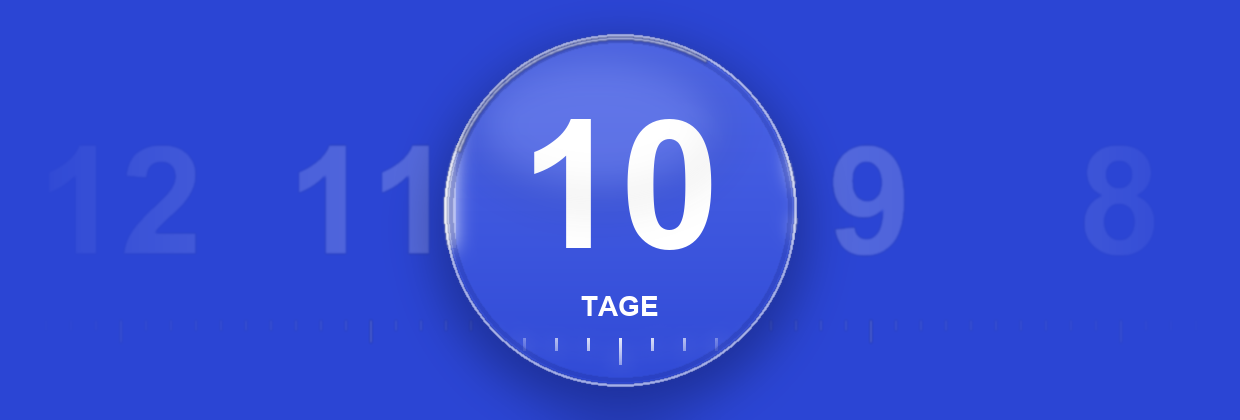
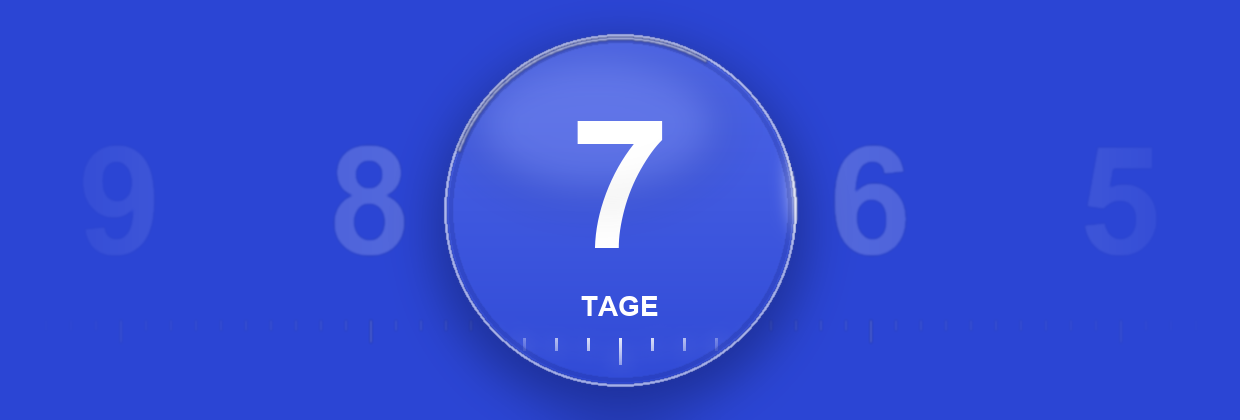
KW46 v15: Countdown 7 Tage, App-Screenshot Sprache

diff --git a/newsletter-kw46-resend.html b/newsletter-kw46-resend.html
@@ -48,7 +48,7 @@
   </style>
 </head>
 <body style="margin:0;padding:0;background:#eef1fb;" bgcolor="#eef1fb">
-  <div class="preheader">In 10 Tagen startet die HalloPetra-App. Ein erster Blick auf das, was sie für dich tut.&nbsp;&#847;&nbsp;&#847;&nbsp;&#847;&nbsp;&#847;&nbsp;&#847;&nbsp;&#847;&nbsp;&#847;&nbsp;&#847;</div>
+  <div class="preheader">In 7 Tagen startet die HalloPetra-App. Ein erster Blick auf das, was sie für dich tut.&nbsp;&#847;&nbsp;&#847;&nbsp;&#847;&nbsp;&#847;&nbsp;&#847;&nbsp;&#847;&nbsp;&#847;&nbsp;&#847;</div>
 
   <table role="presentation" width="100%" cellspacing="0" cellpadding="0" border="0" bgcolor="#eef1fb">
     <tr>
@@ -95,7 +95,7 @@
                     <table role="presentation" width="100%" cellspacing="0" cellpadding="0" border="0" style="margin:6px 0 4px;">
                       <tr>
                         <td align="center" bgcolor="#2b45d4" style="font-size:0;line-height:0;">
-                          <img src="https://raw.githubusercontent.com/jesko-maker/hallopetra-referral/main/countdown-lupe.png" width="620" height="210" alt="Noch 10 Tage bis zur HalloPetra-App" style="width:100%;max-width:620px;height:auto;display:block;color:#ffffff;font-size:28px;font-weight:bold;background-color:#2b45d4;">
+                          <img src="https://raw.githubusercontent.com/jesko-maker/hallopetra-referral/main/countdown-lupe.png" width="620" height="210" alt="Noch 7 Tage bis zur HalloPetra-App" style="width:100%;max-width:620px;height:auto;display:block;color:#ffffff;font-size:28px;font-weight:bold;background-color:#2b45d4;">
                         </td>
                       </tr>
                     </table>
@@ -117,6 +117,7 @@
                   <td class="px28" style="background:#ffffff;padding-top:30px;padding-bottom:32px;border-radius:22px;" bgcolor="#ffffff">
                     <p style="font-family:Arial,Helvetica,sans-serif;font-size:12px;font-weight:800;letter-spacing:1.8px;text-transform:uppercase;color:#8b96ad;margin:0 0 10px;text-align:center;">Ein erster Blick</p>
                     <p class="h2" style="margin:0 0 18px;text-align:center;font-size:28px;line-height:34px;">Sag's einfach Petra.</p>
+                    <table role="presentation" cellspacing="0" cellpadding="0" border="0" align="center" style="margin:0 auto 24px;"><tr><td style="border-radius:22px;box-shadow:0 14px 34px rgba(15,26,60,0.22);font-size:0;line-height:0;" bgcolor="#1d2f6e"><img src="https://raw.githubusercontent.com/jesko-maker/hallopetra-referral/main/app-sprache-screen.jpg" width="300" height="581" alt="Die HalloPetra-App: Sprich mit Petra, auch aus dem Auto" style="width:300px;max-width:100%;height:auto;display:block;border-radius:22px;color:#0f1a3c;font-size:15px;font-weight:bold;background-color:#1d2f6e;"></td></tr></table>
                     <p style="font-family:Arial,Helvetica,sans-serif;font-size:16px;line-height:26px;color:#47546c;margin:0 0 14px;">Du sitzt im Auto, die Hände am Lenkrad, und dir fällt ein: Der Termin morgen früh muss auf Donnerstag. Mit der App sagst du es einfach Petra, so wie du es einer Kollegin im Büro sagen würdest.</p>
                     <p style="font-family:Arial,Helvetica,sans-serif;font-size:16px;line-height:26px;color:#47546c;margin:0 0 26px;">Sie verschiebt den Termin, legt dir eine Aufgabe an oder bereitet eine Nachricht an den Kunden vor. Ohne Tippen, über die Freisprechanlage im Auto genauso wie auf der Baustelle.</p>
                     <table role="presentation" width="100%" cellspacing="0" cellpadding="0" border="0"><tr><td style="border-top:1px solid #e3e7f0;padding-top:20px;">

diff --git a/newsletter-kw46/build_newsletter_kw46.py b/newsletter-kw46/build_newsletter_kw46.py
@@ -78,7 +78,7 @@ days = "".join(
 countdown = f'''<table role="presentation" width="100%" cellspacing="0" cellpadding="0" border="0" style="margin:6px 0 4px;">
                       <tr>
                         <td align="center" bgcolor="#2b45d4" style="font-size:0;line-height:0;">
-                          <img src="{RAW}countdown-lupe.png" width="620" height="210" alt="Noch 10 Tage bis zur HalloPetra-App" style="width:100%;max-width:620px;height:auto;display:block;color:#ffffff;font-size:28px;font-weight:bold;background-color:#2b45d4;">
+                          <img src="{RAW}countdown-lupe.png" width="620" height="210" alt="Noch 7 Tage bis zur HalloPetra-App" style="width:100%;max-width:620px;height:auto;display:block;color:#ffffff;font-size:28px;font-weight:bold;background-color:#2b45d4;">
                         </td>
                       </tr>
                     </table>
@@ -139,7 +139,7 @@ def fotw(title, text, where, after):
 
 html = page(
     title="Petra kommt aufs Handy",
-    preheader="In 10 Tagen startet die HalloPetra-App. Ein erster Blick auf das, was sie für dich tut.",
+    preheader="In 7 Tagen startet die HalloPetra-App. Ein erster Blick auf das, was sie für dich tut.",
     pill="Bald &middot; Die HalloPetra-App",
     h1a="Petra kommt", h1b="aufs Handy",
     sub="Bald hast du Petra als App in der Hosentasche, auf der Baustelle genauso wie im Büro. Wer jetzt auf der Warteliste steht, ist als Erstes dabei.",
@@ -164,6 +164,7 @@ def teaser(title, text, last=False):
 
 cards.append(card(f'''                    <p style="{F}font-size:12px;font-weight:800;letter-spacing:1.8px;text-transform:uppercase;color:#8b96ad;margin:0 0 10px;text-align:center;">Ein erster Blick</p>
                     <p class="h2" style="margin:0 0 18px;text-align:center;font-size:28px;line-height:34px;">Sag's einfach Petra.</p>
+                    <table role="presentation" cellspacing="0" cellpadding="0" border="0" align="center" style="margin:0 auto 24px;"><tr><td style="border-radius:22px;box-shadow:0 14px 34px rgba(15,26,60,0.22);font-size:0;line-height:0;" bgcolor="#1d2f6e"><img src="{RAW}app-sprache-screen.jpg" width="300" height="581" alt="Die HalloPetra-App: Sprich mit Petra, auch aus dem Auto" style="width:300px;max-width:100%;height:auto;display:block;border-radius:22px;color:#0f1a3c;font-size:15px;font-weight:bold;background-color:#1d2f6e;"></td></tr></table>
                     <p style="{F}font-size:16px;line-height:26px;color:#47546c;margin:0 0 14px;">Du sitzt im Auto, die Hände am Lenkrad, und dir fällt ein: Der Termin morgen früh muss auf Donnerstag. Mit der App sagst du es einfach Petra, so wie du es einer Kollegin im Büro sagen würdest.</p>
                     <p style="{F}font-size:16px;line-height:26px;color:#47546c;margin:0 0 26px;">Sie verschiebt den Termin, legt dir eine Aufgabe an oder bereitet eine Nachricht an den Kunden vor. Ohne Tippen, über die Freisprechanlage im Auto genauso wie auf der Baustelle.</p>
                     <table role="presentation" width="100%" cellspacing="0" cellpadding="0" border="0"><tr><td style="border-top:1px solid #e3e7f0;padding-top:20px;">

diff --git a/newsletter-kw46/build_countdown_lupe.py b/newsletter-kw46/build_countdown_lupe.py
@@ -6,8 +6,8 @@ BLUE = (43, 69, 212)
 FB = "/System/Library/Fonts/Supplemental/Arial Bold.ttf"
 FR = "/System/Library/Fonts/Supplemental/Arial.ttf"
 CX, CY, R = 620, 210, 176
-NUMS = ["13", "12", "11", "10", "9", "8"]
-CENTER, LEFT, RIGHT, LABEL = "10", "11", "9", "TAGE"
+NUMS = ["10", "9", "8", "7", "6", "5"]
+CENTER, LEFT, RIGHT, LABEL = "7", "8", "6", "TAGE"
 GAPX = 250
 xs = [CX + (i - 3) * GAPX for i in range(len(NUMS))]
 
